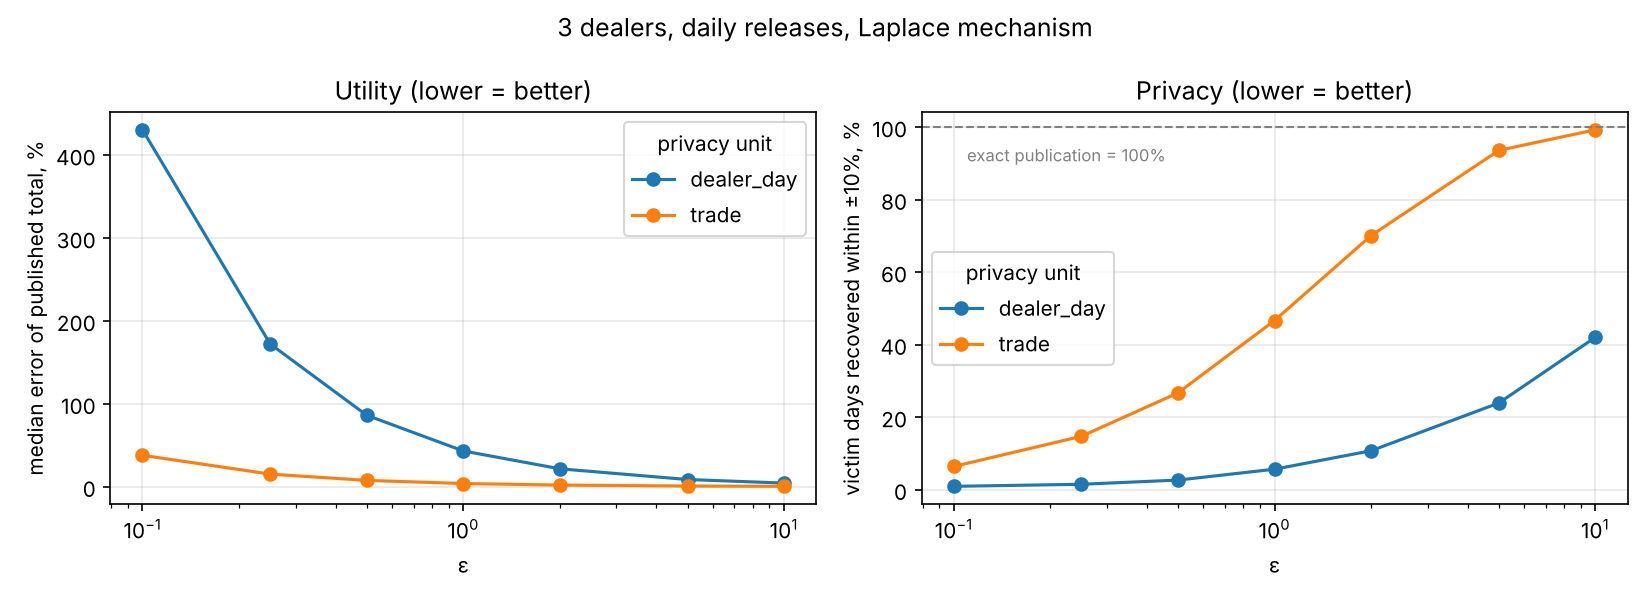
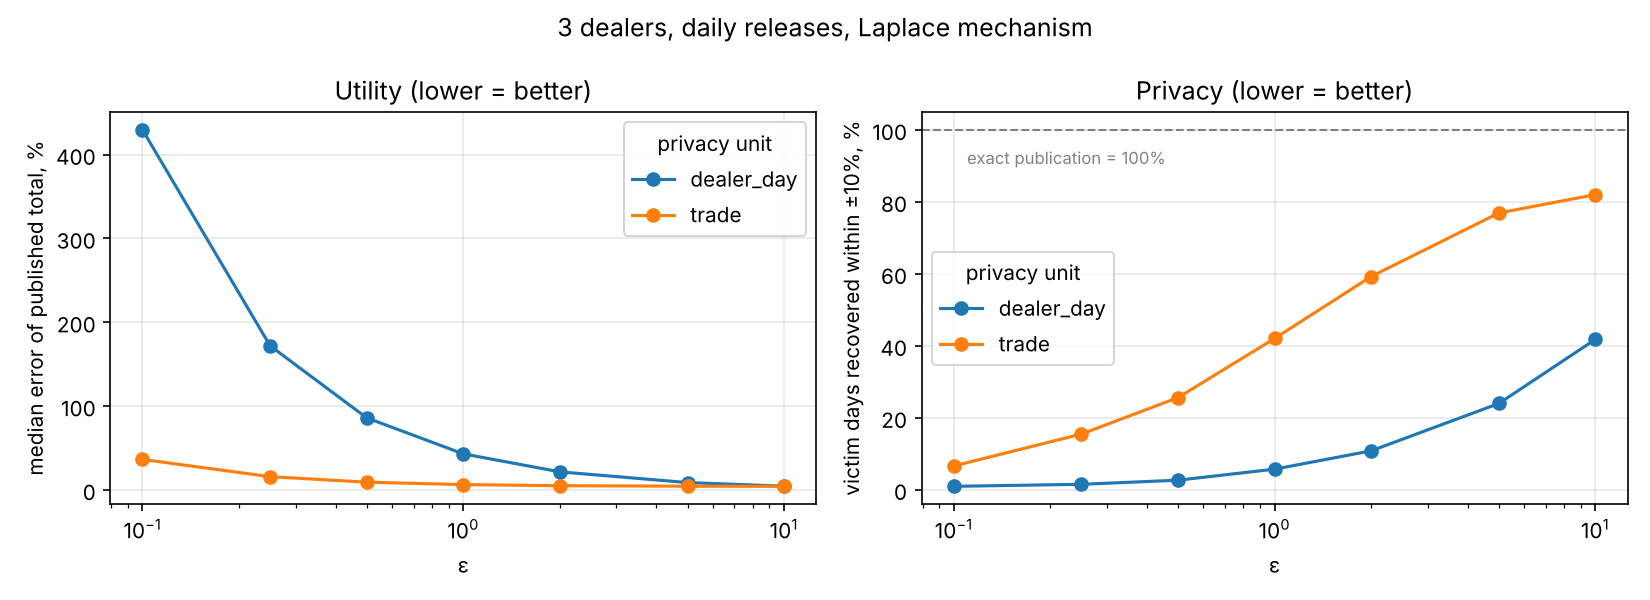
Measure all errors against true unclipped totals; add clip-bound sweep
Errors were previously computed against clipped totals, hiding clipping
bias. Exact baseline now publishes real totals, attacks are scored
against true volumes and grants, monthly releases use a larger clip
bound, and E7 sweeps the clip bound.

diff --git a/src/cdp/experiments.py b/src/cdp/experiments.py
@@ -20,6 +20,7 @@ from . import attacks, captable, dp
 from .data import MarketConfig, generate
 
 TRADE_CLIP = 1_000_000.0       # privacy unit "trade": hide any single trade up to 1M
+MONTHLY_TRADE_CLIP = 2_000_000.0  # a monthly sum tolerates a larger bound: less clipping bias
 DEALER_DAY_CLIP = 12_000_000.0  # privacy unit "dealer_day": hide a dealer's whole day up to 12M
 EPSILONS = [0.1, 0.25, 0.5, 1.0, 2.0, 5.0, 10.0]
 
@@ -55,18 +56,20 @@ def e2_epsilon_sweep(seeds: int, dealers: int = 3) -> pd.DataFrame:
                 rng = np.random.default_rng(10_000 + s)
                 m = generate(replace(MarketConfig(), dealers=dealers), rng)
                 contrib = dp.clipped_dealer_day(m, unit, clip)                     # (T, D)
-                truth = contrib.sum(axis=1)                                        # (T,)
-                pub = truth + dp.laplace_noise(clip, eps, rng, size=truth.shape)  # (T,)
+                clipped = contrib.sum(axis=1)                                      # (T,)
+                pub = clipped + dp.laplace_noise(clip, eps, rng, size=clipped.shape)  # (T,)
+                truth = m.daily_total                                              # (T,) unclipped
                 errs.append(np.median(np.abs(pub - truth) / truth))
                 est = attacks.coalition_attack(pub, contrib, victim=0)             # (T,)
-                recs.append(attacks.recovery_rate(est, contrib[:, 0]))
+                recs.append(attacks.recovery_rate(est, m.dealer_day[:, 0]))       # vs TRUE volume
             rows.append({"unit": unit, "epsilon": eps, "median_rel_error": np.mean(errs), "victim_recovered": np.mean(recs)})
     return pd.DataFrame(rows)
 
 
 # --------------------------------------------------------------- E3 granularity
 def e3_granularity(seeds: int, epsilon: float = 1.0) -> pd.DataFrame:
-    """Same ε, daily vs monthly release. Monthly sums are ~22x larger, noise is the same."""
+    """Same ε, daily vs monthly release. Monthly sums are ~22x larger; for the trade unit the
+    monthly release uses a larger clip bound (2M), since a month accumulates clipping bias."""
     rows = []
     for unit in ("trade", "dealer_day"):
         clip = _clip_for(unit)
@@ -74,11 +77,17 @@ def e3_granularity(seeds: int, epsilon: float = 1.0) -> pd.DataFrame:
         for s in range(seeds):
             rng = np.random.default_rng(20_000 + s)
             m = generate(MarketConfig(), rng)
-            daily = dp.clipped_daily_total(m, unit, clip)
-            d_err.append(np.median(np.abs(dp.laplace_noise(clip, epsilon, rng, size=daily.shape)) / daily))
+            clipped, truth = dp.clipped_daily_total(m, unit, clip), m.daily_total   # (T,), (T,)
+            d_pub = clipped + dp.laplace_noise(clip, epsilon, rng, size=clipped.shape)
+            d_err.append(np.median(np.abs(d_pub - truth) / truth))
             # monthly: one dealer contributes up to T*clip in dealer-month terms; for "trade" Δ stays clip
-            month_sens = clip if unit == "trade" else clip * m.config.days
-            m_err.append(abs(dp.laplace_noise(month_sens, epsilon, rng)) / daily.sum())
+            if unit == "trade":
+                m_clip = MONTHLY_TRADE_CLIP
+                m_sum, month_sens = dp.clipped_daily_total(m, unit, m_clip).sum(), m_clip
+            else:
+                m_sum, month_sens = clipped.sum(), clip * m.config.days
+            m_pub = m_sum + dp.laplace_noise(month_sens, epsilon, rng)
+            m_err.append(abs(m_pub - truth.sum()) / truth.sum())
         rows.append({"unit": unit, "release": "daily", "median_rel_error": np.mean(d_err)})
         rows.append({"unit": unit, "release": "monthly", "median_rel_error": np.mean(m_err)})
     return pd.DataFrame(rows)
@@ -93,8 +102,9 @@ def e4_dealers(seeds: int, epsilon: float = 1.0) -> pd.DataFrame:
         for s in range(seeds):
             rng = np.random.default_rng(30_000 + s)
             m = generate(replace(MarketConfig(), dealers=n), rng)
-            truth = dp.clipped_daily_total(m, "dealer_day", DEALER_DAY_CLIP)
-            errs.append(np.median(np.abs(dp.laplace_noise(DEALER_DAY_CLIP, epsilon, rng, size=truth.shape)) / truth))
+            clipped, truth = dp.clipped_daily_total(m, "dealer_day", DEALER_DAY_CLIP), m.daily_total
+            pub = clipped + dp.laplace_noise(DEALER_DAY_CLIP, epsilon, rng, size=clipped.shape)
+            errs.append(np.median(np.abs(pub - truth) / truth))
         rows.append({"dealers": n, "median_rel_error": np.mean(errs)})
     return pd.DataFrame(rows)
 
@@ -125,10 +135,11 @@ def e5_averaging(seeds: int, epsilon: float = 1.0, budget: float = 5.0) -> pd.Da
 GRANT_CLIP = 200_000.0  # privacy unit "one grant": a day's new shares clipped at 200k
 
 
-def _publish(mode: str, x: np.ndarray, start: float, eps: float, days: int, rng: np.random.Generator) -> np.ndarray:
+def _publish(mode: str, x: np.ndarray, start: float, eps: float, days: int, rng: np.random.Generator,
+             raw: np.ndarray | None = None) -> np.ndarray:
+    if mode == "exact":           # the real, unclipped running total
+        return start + np.cumsum(raw if raw is not None else x)
     truth = start + np.cumsum(x)
-    if mode == "exact":
-        return truth
     if mode == "naive-per-day":   # ε per snapshot, never accounted: real cost days·ε
         return truth + dp.laplace_noise(GRANT_CLIP, eps, rng, size=truth.shape)
     if mode == "naive-split":     # honest: ε split over all snapshots
@@ -150,15 +161,17 @@ def e6_cap_table(seeds: int) -> pd.DataFrame:
             for s in range(seeds):
                 rng = np.random.default_rng(50_000 + s)
                 daily, one = captable.single_grant_days(cfg, rng)
-                x = np.minimum(daily, GRANT_CLIP)                                   # (T,)
-                truth = cfg.initial_shares + np.cumsum(x)                           # (T,)
-                pub = _publish(mode, x, cfg.initial_shares, eps, cfg.days, rng)     # (T,)
+                x = np.minimum(daily, GRANT_CLIP)                                   # (T,) clipped
+                truth = cfg.initial_shares + np.cumsum(daily)                       # (T,) unclipped
+                pub = _publish(mode, x, cfg.initial_shares, eps, cfg.days, rng, raw=daily)  # (T,)
                 errs.append(np.median(np.abs(pub - truth) / truth))
                 diff = attacks.snapshot_diff_attack(pub, cfg.initial_shares)
-                for t in np.where(one & (x > 0))[0]:
-                    others = cfg.initial_shares + np.cumsum(np.where(np.arange(cfg.days) == t, 0.0, x))
-                    simple.append(abs(diff[t] - x[t]) <= 0.1 * x[t])
-                    strong.append(abs(attacks.snapshot_jump_attack(pub, others, int(t)) - x[t]) <= 0.1 * x[t])
+                contrib = daily if mode == "exact" else x   # what each grant adds to what was published
+                for t in np.where(one & (daily > 0))[0]:
+                    others = cfg.initial_shares + np.cumsum(np.where(np.arange(cfg.days) == t, 0.0, contrib))
+                    g = daily[t]                             # the TRUE grant the attacker wants
+                    simple.append(abs(diff[t] - g) <= 0.1 * g)
+                    strong.append(abs(attacks.snapshot_jump_attack(pub, others, int(t)) - g) <= 0.1 * g)
             rows.append({
                 "mechanism": mode,
                 "eps_claimed": float("inf") if mode == "exact" else eps,
@@ -167,6 +180,36 @@ def e6_cap_table(seeds: int) -> pd.DataFrame:
                 "recovered_simple": np.mean(simple),
                 "recovered_strong": np.mean(strong),
             })
+    return pd.DataFrame(rows)
+
+
+# --------------------------------------------------------------- E7 clipping
+def e7_clipping(seeds: int) -> pd.DataFrame:
+    """Clip bound C trades bias (large contributions cut) against noise (Lap scale grows with C).
+    Error is measured against the TRUE (unclipped) total."""
+    rows = []
+    cfg = captable.CapTableConfig()
+    for C in (50e3, 100e3, 200e3, 500e3, 1e6):
+        errs, bias = [], []
+        for s in range(seeds):
+            rng = np.random.default_rng(50_000 + s)  # same markets as E6
+            daily, _ = captable.single_grant_days(cfg, rng)
+            x = np.minimum(daily, C)
+            truth = cfg.initial_shares + np.cumsum(daily)
+            pub = cfg.initial_shares + captable.tree_prefix_sums(x, C, 5.0, rng)
+            errs.append(np.median(np.abs(pub - truth) / truth))
+            bias.append(np.median((truth - cfg.initial_shares - np.cumsum(x)) / truth))
+        rows.append({"case": "cap table, tree, eps=5", "clip": C, "median_rel_error": np.mean(errs), "clip_bias": np.mean(bias)})
+    for C in (0.25e6, 0.5e6, 1e6, 2e6, 5e6):
+        errs, bias = [], []
+        for s in range(seeds):
+            rng = np.random.default_rng(70_000 + s)
+            m = generate(MarketConfig(), rng)
+            clipped, truth = dp.clipped_daily_total(m, "trade", C), m.daily_total
+            pub = clipped + dp.laplace_noise(C, 1.0, rng, size=clipped.shape)
+            errs.append(np.median(np.abs(pub - truth) / truth))
+            bias.append(np.median((truth - clipped) / truth))
+        rows.append({"case": "3 dealers, trade unit, eps=1", "clip": C, "median_rel_error": np.mean(errs), "clip_bias": np.mean(bias)})
     return pd.DataFrame(rows)
 
 
@@ -237,6 +280,7 @@ def run_all(out: Path, seeds: int) -> dict[str, pd.DataFrame]:
         "e4_dealers": e4_dealers(seeds),
         "e5_averaging": e5_averaging(seeds),
         "e6_cap_table": e6_cap_table(seeds),
+        "e7_clipping": e7_clipping(seeds),
     }
     for name, df in res.items():
         df.to_csv(out / f"{name}.csv", index=False)

diff --git a/README.md b/README.md
@@ -41,23 +41,24 @@ exact volume on **~49%** of days (the days only one other dealer traded).
 | unit | error of published total | victim days recovered within ±10% |
 |---|---|---|
 | none (exact) | 0% | 100% |
-| `trade` | **3.8%** | 47% |
-| `dealer_day` | 43% | **5.6%** |
+| `trade` | **6.3%** | 42% |
+| `dealer_day` | 43% | **5.7%** |
 
 Plotted as error against leakage, both units trace the **same curve**: a dealer's exposure
 depends only on the noise scale relative to its volume. Trade-level ε = 1 (Δ = 1M) adds the same
-noise as dealer-level ε = 12, so for a dealer's day it is a weak guarantee in disguise. Choosing a
-setting means choosing a point on that curve; publish the noise scale with every release, not only ε.
+noise as dealer-level ε = 12, so for a dealer's day it is a weak guarantee in disguise. Clipping adds
+a floor: trade-level releases cannot get closer than ~4% to the true total. All errors here are measured
+against the true, unclipped totals.
 
 ![fig1](results/fig1_epsilon_tradeoff.png)
 
 **3. Dealer-level privacy gets affordable as the market grows** (ε = 1, daily):
-3 dealers → 42% error, 10 → 13%, 20 → **6.3%**, 50 → 2.5%.
+3 dealers → 42% error, 10 → 13%, 20 → **6.3%**, 50 → 2.6%.
 
 ![fig2](results/fig2_market_size.png)
 
-**4. Coarser releases are nearly free for trade-level privacy.** Same ε = 1:
-daily total 3.7% error → monthly total **0.2%**.
+**4. Coarser releases help, if the clip bound is retuned.** Same ε = 1, trade level:
+daily total 6.1% error → monthly total **0.9%** with a 2M clip bound (a month accumulates clipping bias).
 
 **5. Without a budget, noise can be averaged away.** Re-querying the same total 100 times
 cuts the attacker's error from ~960k to ~114k USD (√k law). An accountant with Σε ≤ 5 blocks
@@ -68,14 +69,18 @@ single operator can quietly exceed it.
 
 **6. Daily snapshots of running totals need continual-release DP.** A cap-table feed that
 publishes total shares every day reveals each new grant as the day-over-day difference (100%).
-Adding Lap(C/ε) to every snapshot *looks* cheap (0.3% error at "ε = 5") but each grant sits in
+Adding Lap(C/ε) to every snapshot *looks* cheap (2.4% error at "ε = 5") but each grant sits in
 every later snapshot, so the real cost is 64·ε, and an attacker who averages snapshots recovers
-46% of grants. With the budget honestly accounted (ε = 5 over 64 days):
+30% of grants. With the budget honestly accounted (ε = 5 over 64 days):
 
 | mechanism | error of published total | grants recovered (strong attack) |
 |---|---|---|
-| noise split evenly over days | 17.0% | 1.0% |
-| **binary-tree mechanism** | **3.9%** | 2.4% |
+| noise split evenly over days | 17.0% | 1.6% |
+| **binary-tree mechanism** | **4.8%** | 2.1% |
+
+**7. The clip bound trades bias against noise.** Cap table, tree, ε = 5: bound 50k → 5.4% error,
+100k → 4.5%, 200k → 4.8%, 1M → 19%. Choose it from public or earlier-period data, never from the
+released data itself.
 
 ![fig4](results/fig4_cap_table.png)
 
